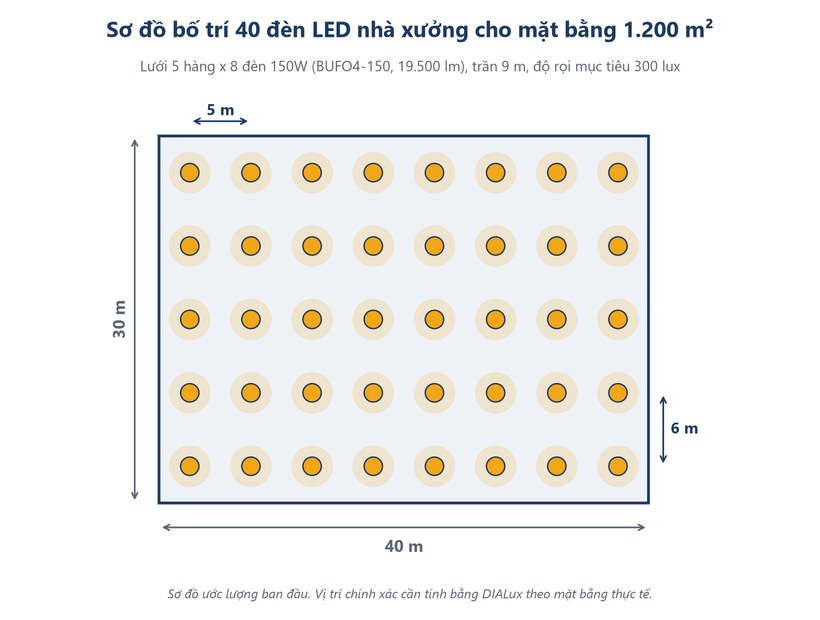
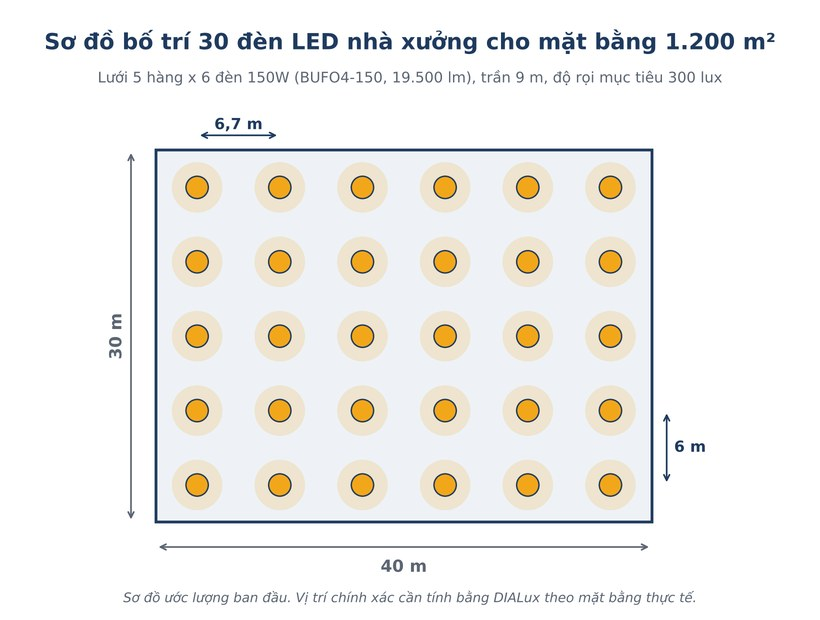
UF, MF thuong 0,8 (nguoi dung chot 26/10): Knowledge, quy tac cham; bai cach chon den: tinh lai vi du 30 den, ve lai so do, doi H2 ket bai co tu khoa; cham vong 3: 99 DAT
Claude-Session: https://claude.ai/code/session_016bEWFW43oM5Q5QWh964VrL

Changed region(s): [[0.061, 0.0306, 0.9451, 0.9194], [0.1524, 0.95, 0.8537, 0.9806]]

diff --git a/anh/Bai_cach-chon-den-led-nha-xuong/ve_so_do.py b/anh/Bai_cach-chon-den-led-nha-xuong/ve_so_do.py
@@ -11,6 +11,6 @@ from mau_anh import bang_ip, luoi_bo_tri, luu  # noqa: E402
 
 if __name__ == "__main__":
     luu(bang_ip(cap="54"), OUT, "cap-bao-ve-ip-den-nha-xuong.jpg")
-    luu(luoi_bo_tri(40, 30, 8, 5, "Sơ đồ bố trí 40 đèn LED nhà xưởng cho mặt bằng 1.200 m²",
-                    phu_de="Lưới 5 hàng x 8 đèn 150W (BUFO4-150, 19.500 lm), trần 9 m, độ rọi mục tiêu 300 lux"),
+    luu(luoi_bo_tri(40, 30, 6, 5, "Sơ đồ bố trí 30 đèn LED nhà xưởng cho mặt bằng 1.200 m²",
+                    phu_de="Lưới 5 hàng x 6 đèn 150W (BUFO4-150, 19.500 lm), trần 9 m, độ rọi mục tiêu 300 lux"),
         OUT, "so-do-bo-tri-den-nha-xuong-1200m2.jpg")

diff --git a/quy_tac_cham.md b/quy_tac_cham.md
@@ -1,7 +1,7 @@
 # QUY TẮC CHẤM BÀI HLB (BẢN RÚT GỌN CHO AGENT ĐÁNH GIÁ)
 
 Phiên bản: 26/10/2026. Rút từ `1_Project_Instructions_Auto_Blog_HLB.md` (Instructions) và `2_Knowledge_Du_lieu_tham_chieu_HLB.md` (Knowledge), chỉ giữ phần dùng để chấm. Khi file này khác file gốc, file gốc đúng. File này chỉ chép lại quy tắc của file gốc, không thêm điều kiện, ví dụ hay mức nghiêm mới.
-Mã nguồn: 1_Project_Instructions_Auto_Blog_HLB.md 501b849ae6fa; 2_Knowledge_Du_lieu_tham_chieu_HLB.md f285e81632ba
+Mã nguồn: 1_Project_Instructions_Auto_Blog_HLB.md 501b849ae6fa; 2_Knowledge_Du_lieu_tham_chieu_HLB.md 3fec711bb1a6
 
 Cách dùng: agent đánh giá đọc file này thay cho hai file gốc. `kiem_tra_bai.py` báo "quy_tac_cham.md làm từ bản Instructions/Knowledge cũ" thì lần chấm đó đọc hai file gốc. Cần tra chi tiết (danh sách URL danh mục, bài đã có, bảng bảo hành hãng) thì Grep đúng mục trong Knowledge, không đọc cả file.
 
@@ -42,7 +42,7 @@ Ai sửa Instructions hoặc Knowledge thì sửa luôn file này nếu quy tắ
 - Philips, Rạng Đông, Điện Quang (26/10/2026): thông số theo hãng công bố được (có nguồn), giá ghi khoảng giá thị trường có nguồn và ngày ở phần C. Dòng cao cấp HLB phân phối: giá, thông số đúng trang sản phẩm.
 - Mã tiêu chuẩn (TCVN, QCVN, IEC), giá trị độ rọi theo tiêu chuẩn, giá điện, số liệu thị trường: phải có nguồn hoặc `[CẦN KIỂM TRA]`. Mã có trong `tieu_chuan_da_kiem.csv` là đã có nguồn; giá trị cụ thể (mức lux) vẫn phải đúng văn bản. Dùng bản đã bị thay thế (ví dụ TCVN 4255:2008) là nên sửa.
 - Kiến thức chung được viết không cần nguồn nhưng phải đúng: IP theo IEC 60529 (số đầu chống bụi, số sau chống nước; IP54 nước bắn tóe, IP65 tia nước, IP66 tia nước mạnh); Ra trên 70 cho kho, xưởng thô, trên 80 khi cần phân biệt màu; PF càng gần 1 càng ít tổn hao; tuổi thọ là giờ tới khi quang thông giảm tới mức quy định; góc chiếu theo chiều cao chỉ nêu là kinh nghiệm phổ biến.
-- Ví dụ tính: ghi đủ giả định; N = (E x S) / (Φ x UF x MF); UF giả định 0,5-0,7, MF 0,7-0,8, xưởng nhiều bụi lấy thấp; làm tròn lên; ưu tiên quang thông của một model cụ thể; kết bằng lưu ý cần mô phỏng DIALux theo mặt bằng thật. Đơn giá điện có nguồn và ngày hoặc ghi giả định.
+- Ví dụ tính: ghi đủ giả định; N = (E x S) / (Φ x UF x MF); UF và MF thường giả định khoảng 0,8 (người dùng chốt 26/10/2026), xưởng nhiều bụi lấy MF thấp hơn; làm tròn lên; ưu tiên quang thông của một model cụ thể; kết bằng lưu ý cần mô phỏng DIALux theo mặt bằng thật. Đơn giá điện có nguồn và ngày hoặc ghi giả định.
 
 - Không chép nguyên câu, đoạn, bảng của bài đối thủ (Instructions mục 6). Nghi chép thì ghi nên sửa kèm câu nghi ngờ. `kiem_tra_bai.py` so với văn bản bài top đã lưu ở `nghien_cuu/<bài>/serp/`: đoạn từ 25 từ liền nhau trùng là LỖI, từ 10 từ là cảnh báo.
 

diff --git a/2_Knowledge_Du_lieu_tham_chieu_HLB.md b/2_Knowledge_Du_lieu_tham_chieu_HLB.md
@@ -297,17 +297,17 @@ N = (E x S) / (Φ x UF x MF)
 - E: độ rọi trung bình cần đạt (lux)
 - S: diện tích cần chiếu sáng (m²)
 - Φ: quang thông một đèn (lm)
-- UF: hệ số sử dụng, phụ thuộc chiều cao, kích thước phòng, màu tường trần. Khi ước tính thường giả định 0,5-0,7.
-- MF: hệ số duy trì, tính tới bụi bẩn và suy giảm quang thông. Khi ước tính thường giả định 0,7-0,8. Xưởng nhiều bụi (gỗ, xi măng, dệt) nên lấy thấp.
+- UF: hệ số sử dụng, phụ thuộc chiều cao, kích thước phòng, màu tường trần. Khi ước tính thường giả định khoảng 0,8 (người dùng chốt 26/10/2026).
+- MF: hệ số duy trì, tính tới bụi bẩn và suy giảm quang thông. Khi ước tính thường giả định khoảng 0,8 (người dùng chốt 26/10/2026). Xưởng nhiều bụi (gỗ, xi măng, dệt) nên lấy thấp.
 
 **Ví dụ mẫu:**
 
 Nhà kho 400 m², trần cao 5 m, giả sử cần độ rọi trung bình 200 lux, dùng đèn BUFO4-50 (quang thông công bố 6.500 lm).
 
-1. Giả định UF = 0,6, MF = 0,8
-2. N = (200 x 400) / (6.500 x 0,6 x 0,8) = 80.000 / 3.120 = 25,64
-3. Làm tròn lên: 26 đèn. Bố trí theo lưới đều, ví dụ 4 hàng x 7 đèn = 28 đèn.
-4. Tổng công suất: 28 x 50W = 1.400W, tương đương 3,5 W/m².
+1. Giả định UF = 0,8, MF = 0,8
+2. N = (200 x 400) / (6.500 x 0,8 x 0,8) = 80.000 / 4.160 = 19,23
+3. Làm tròn lên: 20 đèn. Bố trí theo lưới đều, ví dụ 4 hàng x 5 đèn = 20 đèn.
+4. Tổng công suất: 20 x 50W = 1.000W, tương đương 2,5 W/m².
 
 **Ví dụ tính tiền điện:**
 
